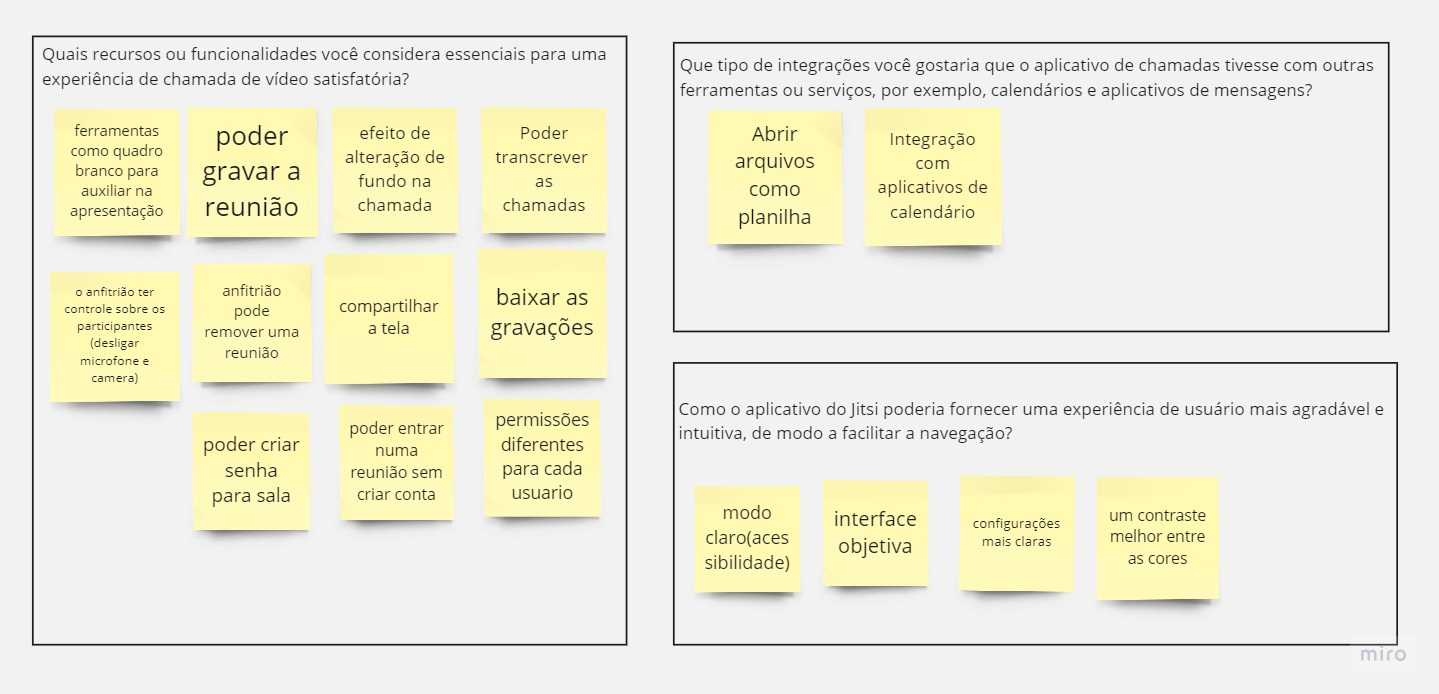
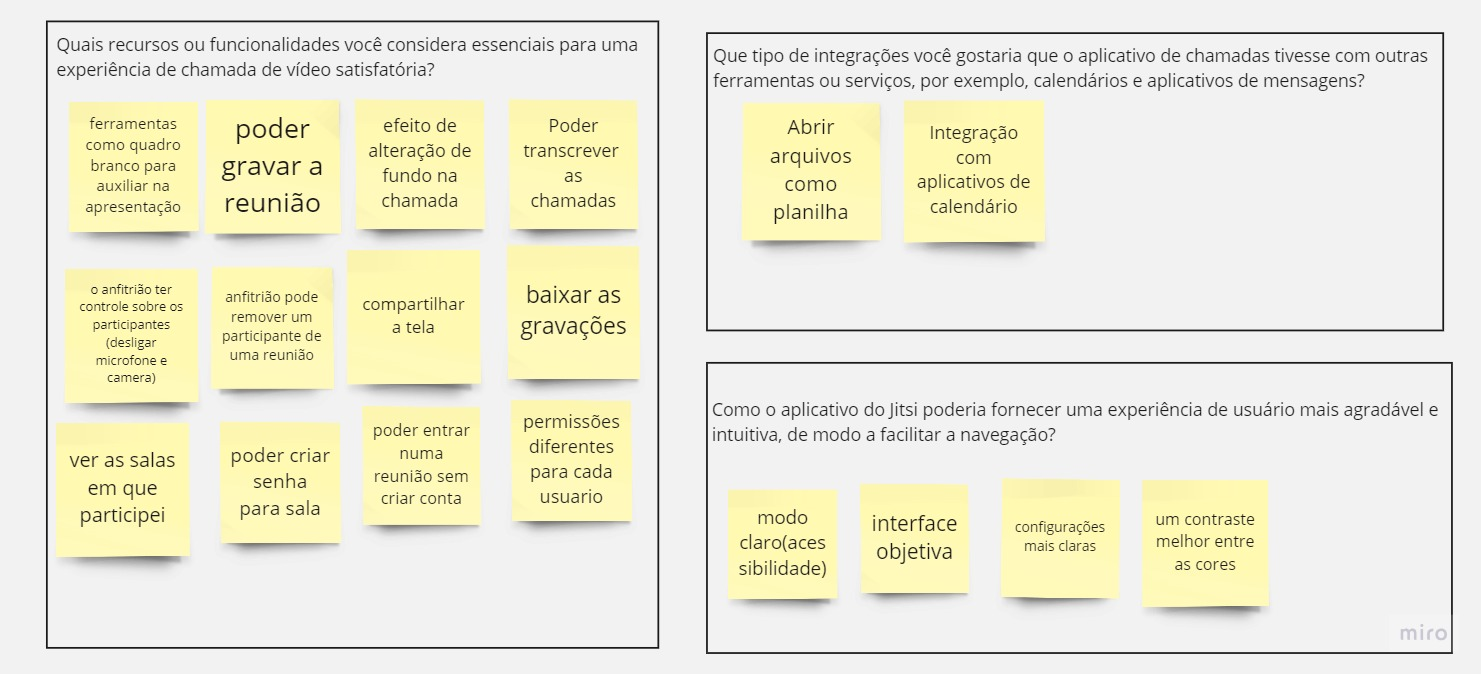
elicitando requisitos do brainstorming

Changed region(s): [[0.0306, 0.0312, 0.9785, 0.9659]]

diff --git a/docs/Elicitação/brainstorming.md b/docs/Elicitação/brainstorming.md
@@ -53,10 +53,41 @@
 
 ## **Brainstorm**
 
+<img src= "https://raw.githubusercontent.com/Requisitos-de-Software/2023.2-Jitsi/main/docs/assets/Brainstorm.jpg" alt="Brainstorm" width=75px> 
 
-## **Links**
+## **Requisitos Elicitados**
 <p align="justify">
-<a href="link de referência">nome a ser referenciado</a>
+&emsp;&emsp;Legenda da tabela 1: 
+<li> RF(Requisitos Funcionais): descrevem as funcionalidades e operações que o sistema deve realizar para atender às necessidades dos usuários. </li>
+<li> RNF(Requisitos Não Funcionais): definem a qualidade e o desempenho de um sistema. </li>
+<li> Identificação(BR + N°) : Requisito Elicitado pela Brainstorming + Número
+</p>
+<p align="justify">
+&emsp;&emsp;A tabela 1 representa os Requisitos Elicitados pela técnica de Brainstorming
+</p>
+
+| Identificação  | Descrição  | Categoria | 
+|-----|---------------------------------------------------------|-------|
+|BR01| Deve haver uma funcionalidade de quadro de anotações disponível  | RF |
+|BR03| Deve permitir a gravação de reuniões  | RF |
+|BR04| O usuário deve ser capaz de alterar seu fundo em uma chamada de vídeo | RF |
+|BR05| O sistema deve ser capaz de transcrever uma chamada| RNF|
+|BR02| O usuário deve ser capaz de compartilhar sua tela durante as reuniões | RF|
+|BR06| Deve permitir que o anfitrião de uma reunião consiga desligar o microfone e a câmera de qualquer participante. |RNF|
+|BR07| Deve permitir que o anfitrião tenha a capacidade de remover um participante específico da reunião. | RNF|
+|BR08| Deve ser possível fazer o download das gravações das reuniões| RF|
+|BR09|Deve possuir um mecanismo de busca a partir da data da reunião| RF|
+|BR10| Deve permitir que o anfitrião exclua particpantes | RF|
+|BR11| Deve fornecer ao usuário a capacidade de visualizar todas as salas em que eles participaram anteriormente. | RNF |
+|BR12| O anfitrião deve ser capaz de controlar a entrada em uma sala por meio de senha| RNF|
+|BR13| Deve ser possível ingressar em uma reunião sem a necessidade de um login | RNF |
+|BR14| O anfitrião deve ser capaz de conceder permissões diferentes, a cada participante, para a utilização das ferramentas durante a reunião | RNF |
+|BR15| Deve ser possível a integração com outros sistemas afim de possibilitar a abertura de arquivos no próprio aplicativo| RNF |
+|BR15| Deve ser possível a integração com aplicativos de calendário afim de possibilitar a vsiualização dos compromissos do usuario no aplicativo| RNF |
+
+<h6 align = "center"> Tabela 03: Requisitos Elicitados
+<br> Autor(a): <a href="https://github.com/fulanodetal"><a href="https://github.com/catlenc">Catlen Cleane</a></h6>
+</center>
 </p>
 
 ## **Tópico n**

diff --git a/docs/Elicitação/Introspecção.md b/docs/Elicitação/Introspecção.md
@@ -29,7 +29,7 @@
 | Identificação  | Descrição  | Categoria | 
 |-----|---------------------------------------------------------|-------|
 |IN01| Deve permitir a configuração de controles de acesso | RF |
-|IN02| Os usuários devem poder compartilhar suas telas durante as reuniões | RF|
+|IN02| O usuário deve ser capaz de compartilhar sua tela durante as reuniões | RF|
 |IN03| Deve permitir a gravação de reuniões  | RF |
 |IN04| Deve haver uma funcionalidade de quadro de anotações disponível | RF |
 |IN05| Ser compatível com sistemas operacionais Android e IOS| RNF|

diff --git a/docs/Elicitação/questionario.md b/docs/Elicitação/questionario.md
@@ -7,7 +7,7 @@
 
 ## **Metodologia**
 <p align="justify">
-&emsp;&emsp;O questionário foi divulgado em grupos de WhatsApp, nos grupos da Unb, familia .... desenvolver
+&emsp;&emsp;
 </p>
 
 ## **Resultados**
